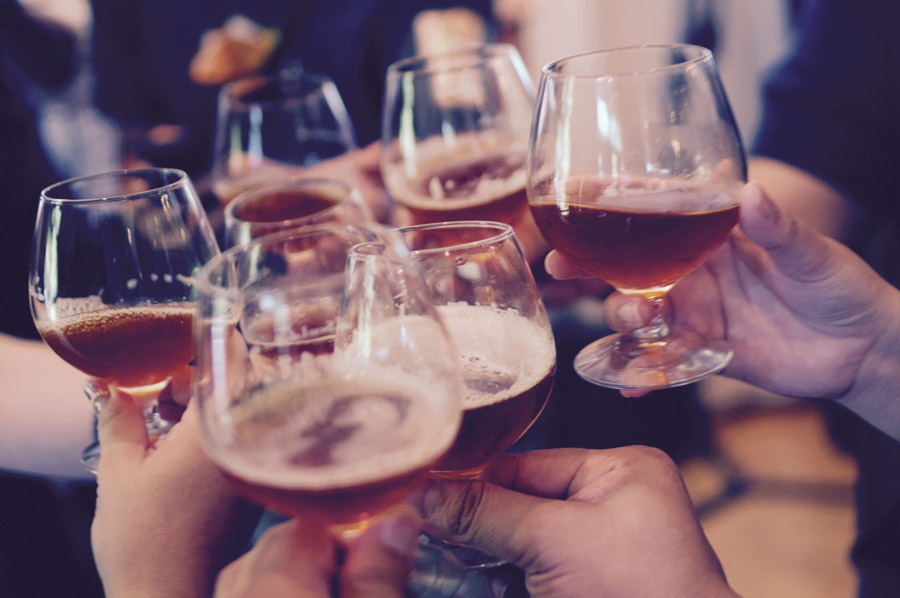
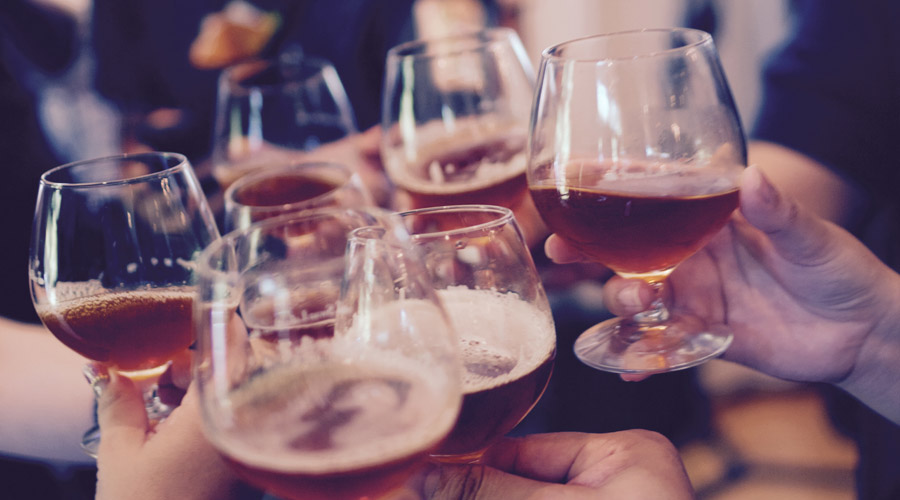
sliderの画像サイズ変更に伴うpadding値変更
仮置きではあるがsliderの高さを変更した

diff --git a/app/assets/stylesheets/info/index.scss b/app/assets/stylesheets/info/index.scss
@@ -3,10 +3,10 @@
   overflow: hidden;
   position: relative;
   .main {
-    padding: 50px;
+    padding: 30px;
     &__slider {
       &--image {
-        width: 50vw;
+        width: 80vw;
         text-align: center;
         margin: 50px auto;
       }
